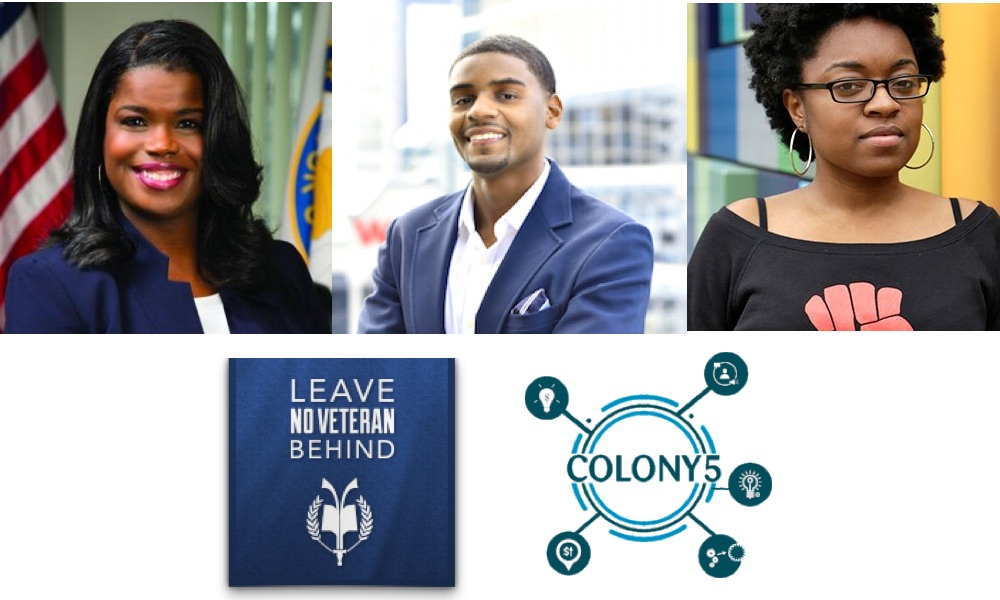
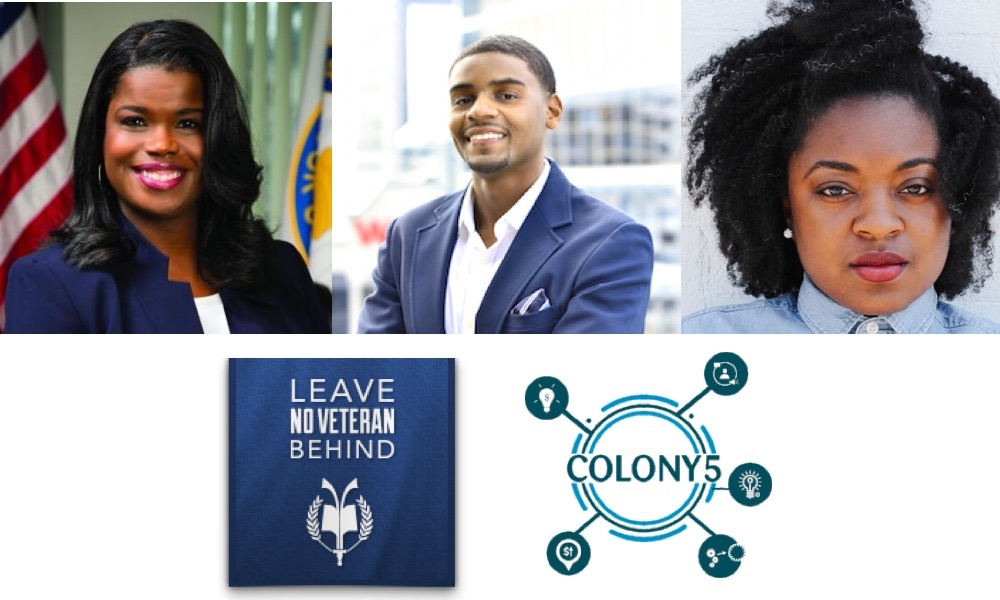
updated Charlene's photo

Changed region(s): [[0.682, 0.0, 1.0, 0.57]]

diff --git a/_posts/blog/2018-02-02-introducing-black-history-month-speaker-series.md b/_posts/blog/2018-02-02-introducing-black-history-month-speaker-series.md
@@ -82,7 +82,7 @@ Chicago, IL 60654<br />
 
 **February 27th - Charlene Carruthers, BYP100**
 
-<p><img src="/images/blog/2018-02-02-black-history-month/char.png" alt="Charlene Carruthers" class="img-thumbnail" style='width: 200px;'/>
+<p><img src="/images/blog/2018-02-02-black-history-month/char.jpg" alt="Charlene Carruthers" class="img-thumbnail" style='width: 200px;'/>
 </p>
 
 On February 27, we will hear from [Charlene Carruthers](https://byp100.org/charlene-a-carruthers/). Charlene serves as national director of the [Black Youth Project 100 (BYP100)](https://byp100.org/), a national member-based organization of Black 18-35 activists creating justice and freedom for all Black people. BYP100 envisions a world where all Black people have economic, social, political, and educational freedom.
